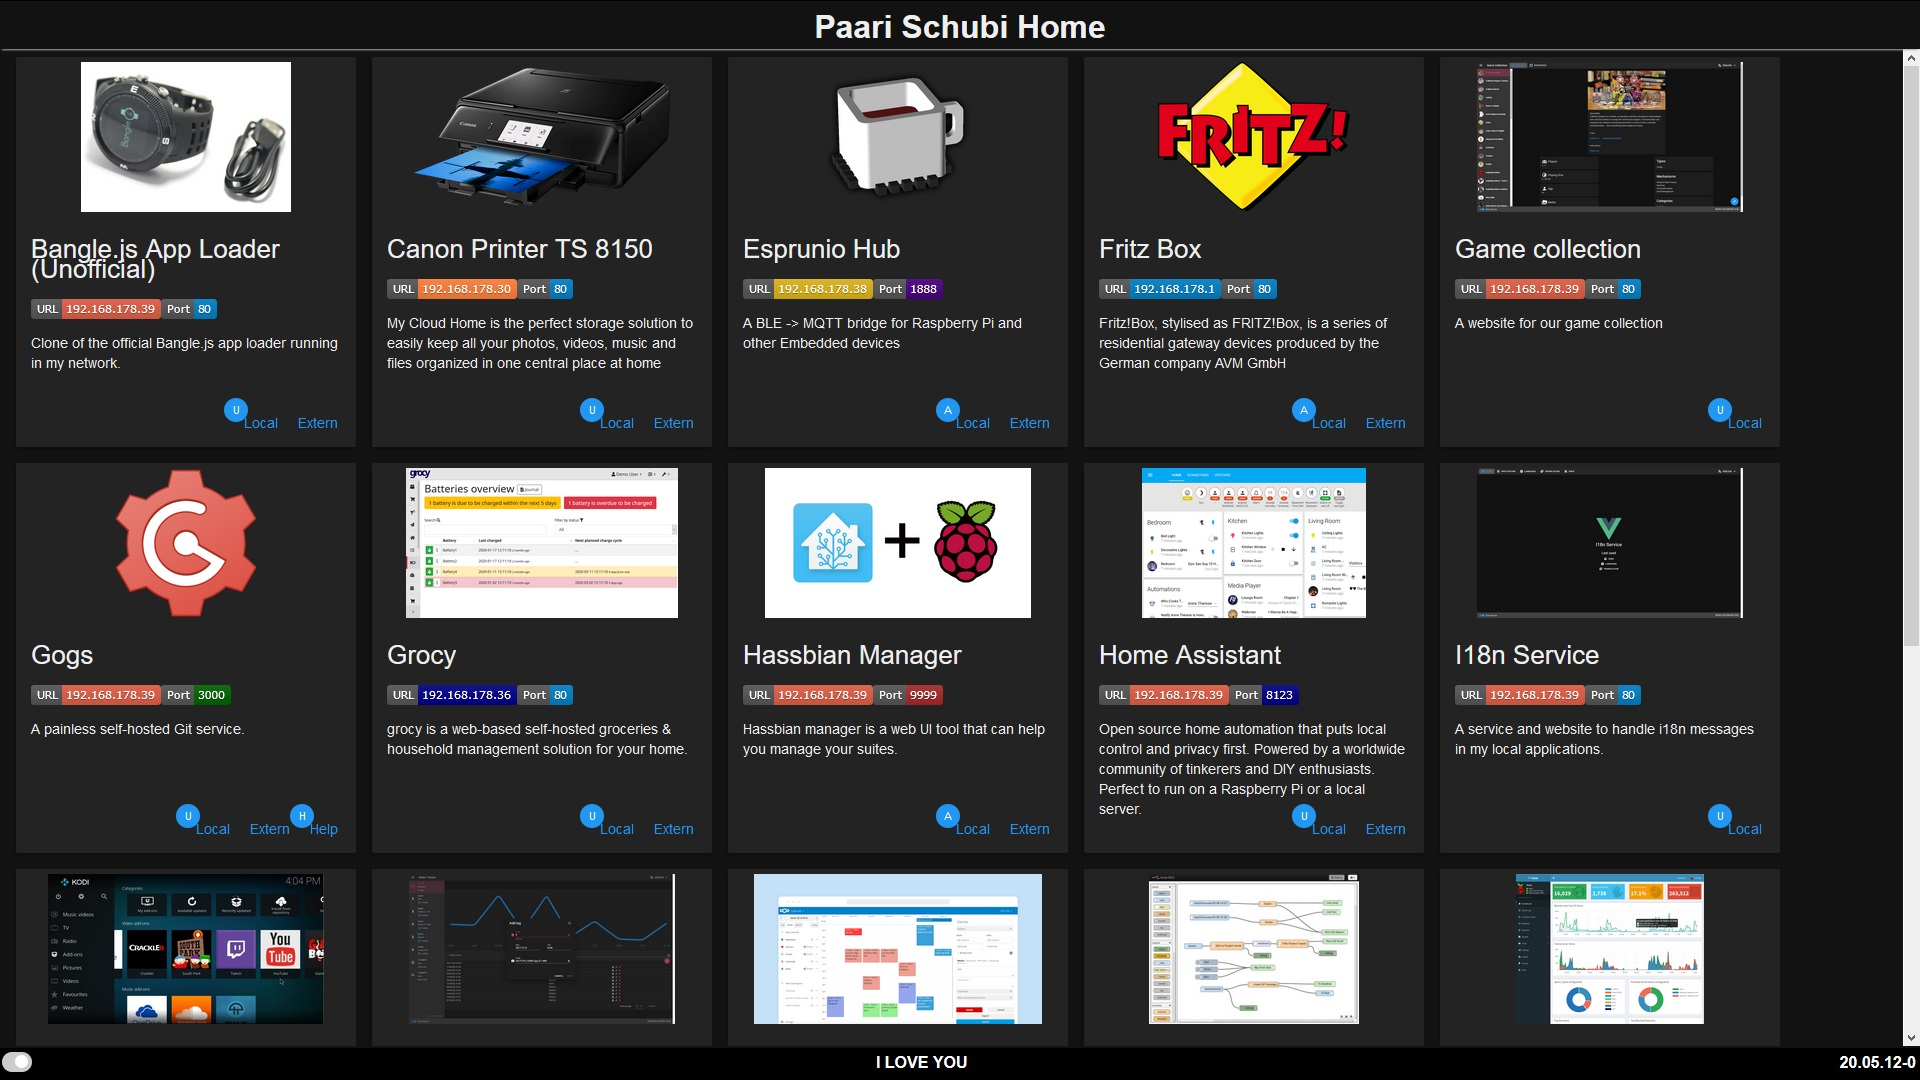
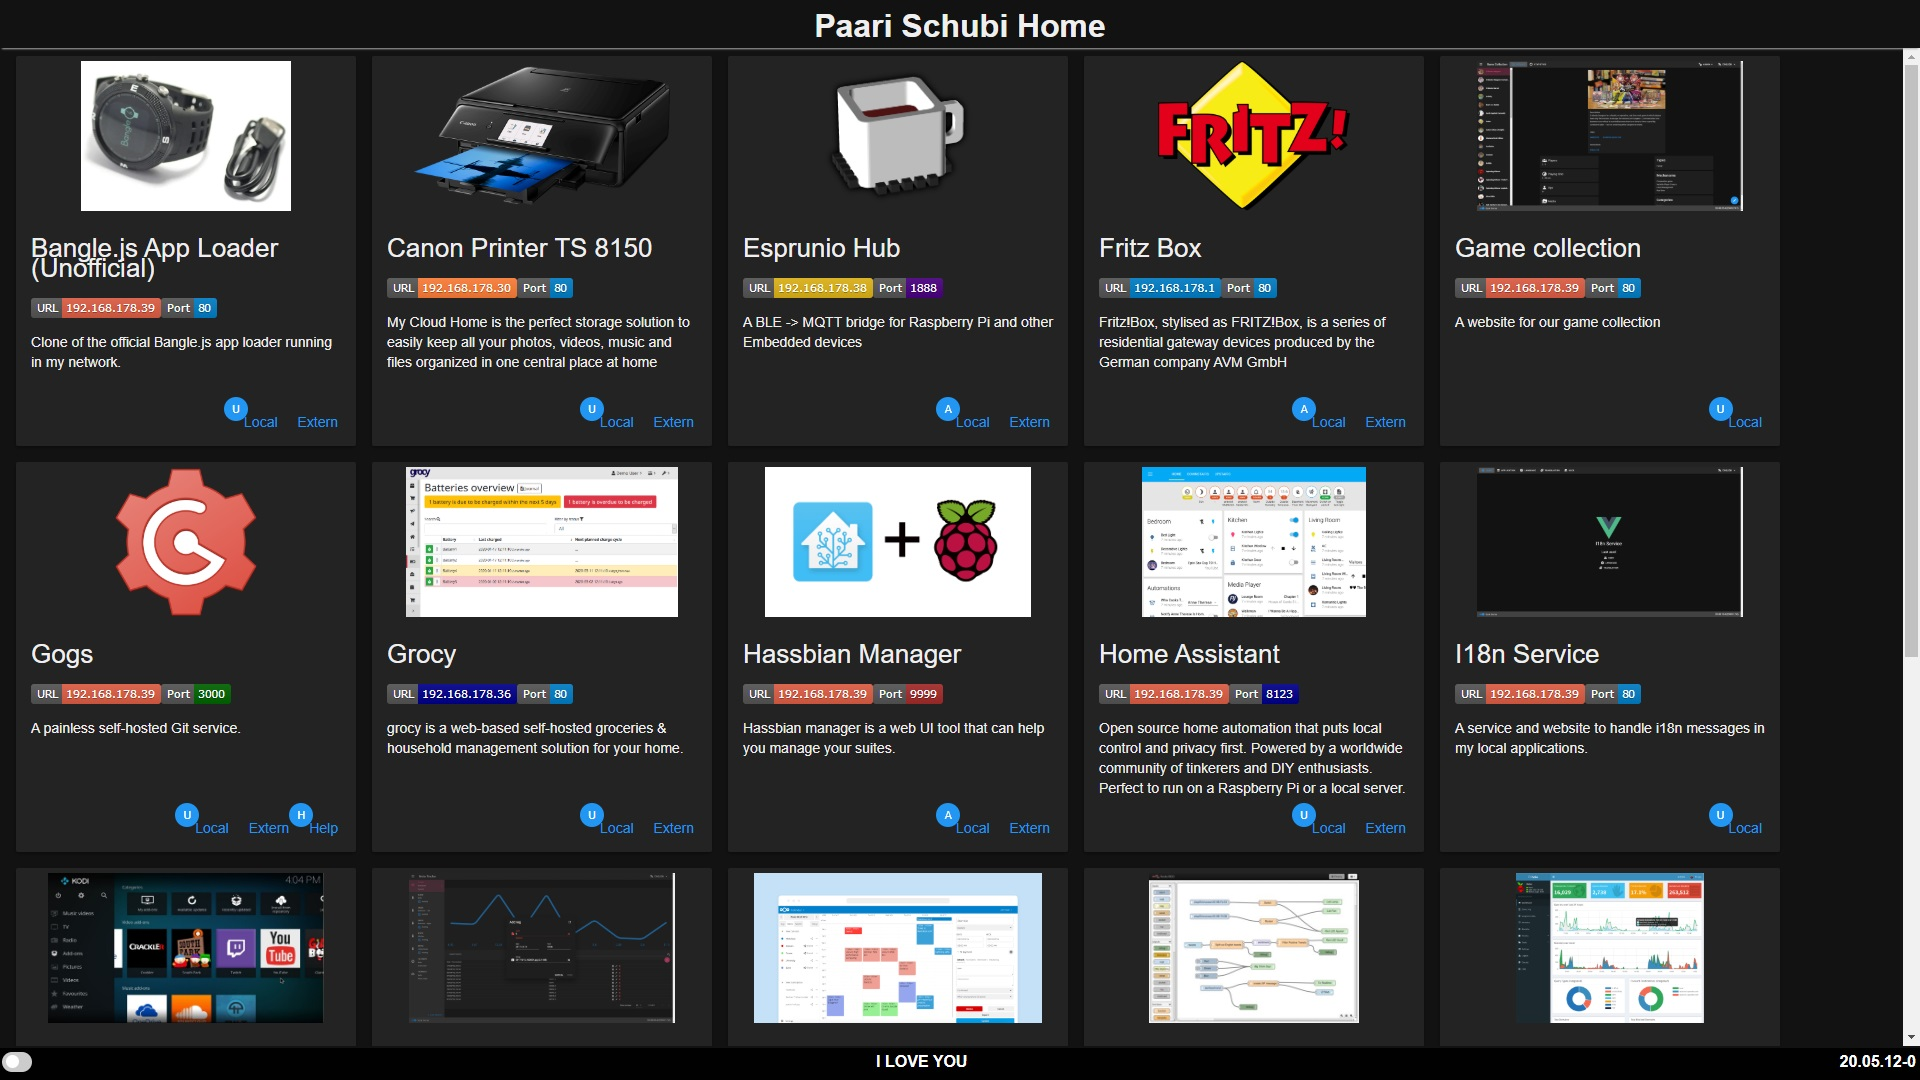
adds the-clipboard, uses local gogs repositories for apps preview, updates screenshots

diff --git a/index.html b/index.html
@@ -72,7 +72,7 @@
             </div>
 
             <div class="card">
-                <a href="http://192.168.178.39/game-collection" target="_blank"><img class="card-image" src="https://github.com/JonasSchubert/game-collection/blob/master/client/screenshots/details_light.jpg?raw=true" /></a>
+                <a href="http://192.168.178.39/game-collection" target="_blank"><img class="card-image" src="http://192.168.178.39:3000/Jonas/game-collection/raw/master/client/screenshots/details_light.jpg" /></a>
                 <div class="card-details">
                     <h2 class="card-head">Game collection</h2>
                     <div style="display: flex;">
@@ -152,7 +152,7 @@
             </div>
 
             <div class="card">
-                <a href="http://192.168.178.39/i18n-service" target="_blank"><img class="card-image" src="https://github.com/JonasSchubert/i18n-service/blob/master/client/screenshots/home_light.jpg?raw=true" /></a>
+                <a href="http://192.168.178.39/i18n-service" target="_blank"><img class="card-image" src="http://192.168.178.39:3000/Jonas/i18n-service/raw/master/client/screenshots/home_light.jpg" /></a>
                 <div class="card-details">
                     <h2 class="card-head">I18n Service</h2>
                     <div style="display: flex;">
@@ -183,7 +183,7 @@
             </div>
 
             <div class="card">
-                <a href="http://192.168.178.39/meter-tracker" target="_blank"><img class="card-image" src="https://github.com/JonasSchubert/meter-tracker/blob/master/client/screenshots/screenshot_light.jpg?raw=true" /></a>
+                <a href="http://192.168.178.39/meter-tracker" target="_blank"><img class="card-image" src="http://192.168.178.39:3000/Jonas/meter-tracker/raw/master/client/screenshots/screenshot_light.jpg" /></a>
                 <div class="card-details">
                     <h2 class="card-head">Meter tracker</h2>
                     <div style="display: flex;">
@@ -246,6 +246,21 @@
             </div>
 
             <div class="card">
+                <a href="http://192.168.178.39/the-clipboard" target="_blank"><img class="card-image" src="http://192.168.178.39:3000/Jonas/the-clipboard/raw/master/web/screenshots/clipboard-text_light.jpg" /></a>
+                <div class="card-details">
+                    <h2 class="card-head">The Clipboard</h2>
+                    <div style="display: flex;">
+                        <a href="http://192.168.178.39/the-clipboard" target="_blank"><img class="card-image" src="https://img.shields.io/badge/URL-192.168.178.39-red.svg" /></a>
+                        <a href="http://192.168.178.39/the-clipboard" target="_blank"><img class="card-image" src="https://img.shields.io/badge/Port-80-blue.svg" /></a>
+                    </div>
+                    <p>A service and website to share clipboard data between devices.</p>
+                    <div class="card-actions">
+                        <a href="http://192.168.178.39/the-clipboard" target="_blank" class="card-action-button" data-badge="U">Local</a>
+                    </div>
+                </div>
+            </div>
+
+            <div class="card">
                 <a href="http://192.168.178.21/" target="_blank"><img class="card-image" src="https://proxy.duckduckgo.com/iu/?u=http%3A%2F%2Fwww.legitreviews.com%2Fwp-content%2Fuploads%2F2014%2F01%2FWD_My_Cloud-a-645x645.jpg&f=1&nofb=1" /></a>
                 <div class="card-details">
                     <h2 class="card-head">WD MyCloud 21</h2>
@@ -268,7 +283,7 @@
 				<span class="slider round"></span>
 			</label>
             I LOVE YOU
-            <div style="float: right;">20.05.12-0</div>
+            <div style="float: right;">20.05.24-0</div>
 		</div>
     </body>
 </html>
@@ -505,4 +520,6 @@ function changeTheme() {
 		}
 	}
 }
+
+changeTheme();
 </script>
